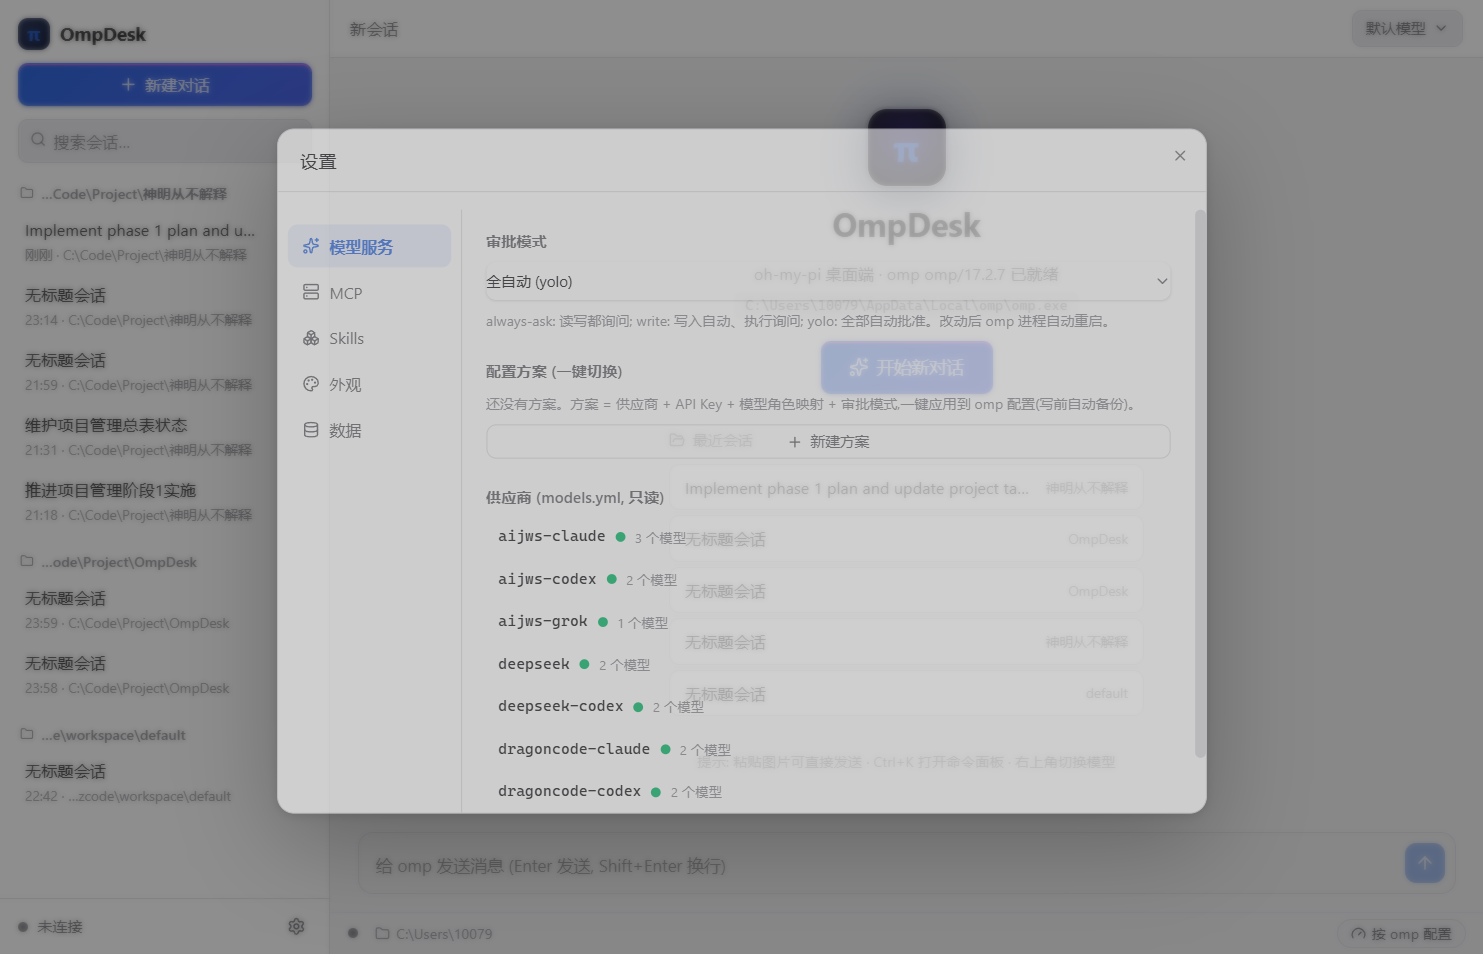
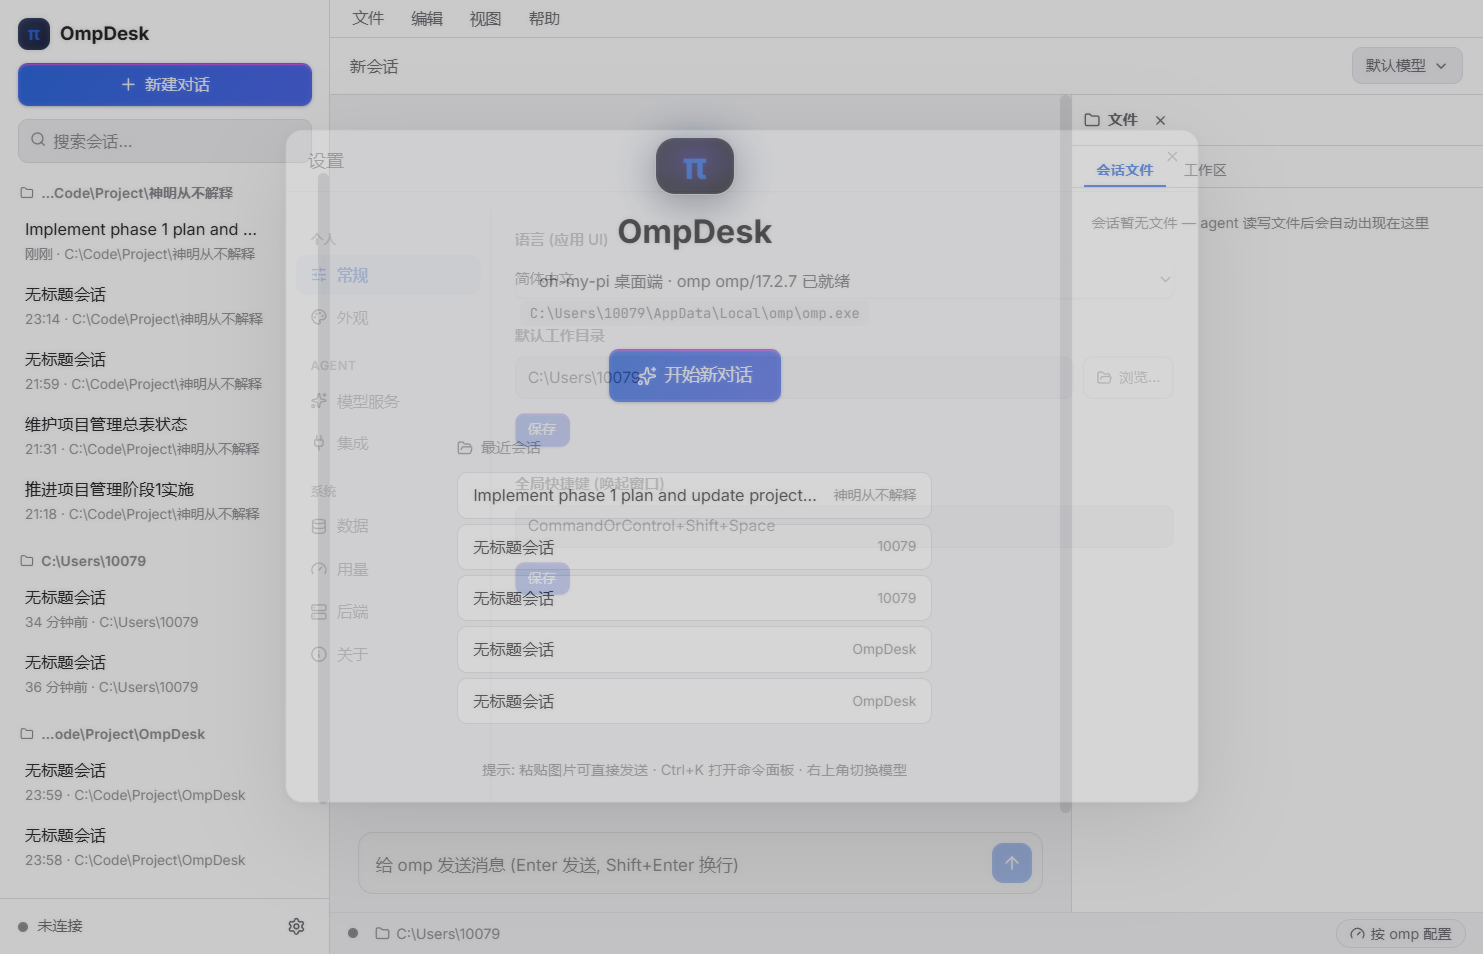
chore(release): v0.4.0 — 五阶段差异化改造(i18n 三语/Codex 式菜单与设置/文件面板/过程透明化/omp+pi 双后端); e2e 全绿

diff --git a/CHANGELOG.md b/CHANGELOG.md
@@ -4,9 +4,15 @@ All notable changes to OmpDesk are documented in this file.
 
 The format is based on [Keep a Changelog](https://keepachangelog.com/en/1.1.0/), and this project adheres to [Semantic Versioning](https://semver.org/spec/v2.0.0.html). Each release ships to all three platforms (Windows / macOS / Linux) — see [RELEASE_NOTES.md](RELEASE_NOTES.md) for per-release artifact lists and installation notes.
 
-## [Unreleased]
+## [0.4.0] - 2026-08-05
 
 ### Added
+- **i18n (multi-language)**: lightweight zero-dependency i18n layer with `zh-CN` / `en` / `ja` dictionaries, type-safe keys and `{param}` interpolation; switch language in *Settings → General* (persisted); every user-visible string extracted (~260 across renderer and main process — UI, tray, notifications, updater dialogs, about)
+- **Application menu bar (Codex-style)**: File / Edit / View / Help — self-drawn in the renderer on Windows/Linux, native app menu on macOS; accelerators registered on all platforms (Ctrl+N new chat, Ctrl+O open folder, Ctrl+, settings, Ctrl+Shift+E file panel, F11 fullscreen, zoom); Edit roles (undo/redo/cut/copy/paste/select-all)
+- **Settings restructure (Codex-style grouped navigation)**: three groups (Personal / Agent / System) with eight pages — General / Appearance / Model Service / Integrations / Data / Usage / Backend / About; About shows the dynamic app version
+- **File panel**: session files (extracted from tool calls in history + live streaming) and workspace file tree (skips `node_modules`/`.git`, depth & entry limits) with multi-tab read-only syntax-highlighted preview and drag-to-resize; new read-only IPC `omp:listFiles` / `omp:readFile` (path-traversal guarded, 512 KB cap)
+- **Process transparency (token dimension)**: per-session token chip in the top bar (Σ input/output), process summary row (messages · tool calls · total tokens) under the message stream, exact token counts on message cards
+- **Dual backend (BackendAdapter)**: omp (oh-my-pi) and pi (earendil-works) share the same origin — backend switch in *Settings → Backend* (auto / omp / pi) re-locates the binary and rebuilds the process pool; differences (binary name, data dir `~/.omp/agent` vs `~/.pi/agent`, `--mode rpc-ui` vs `--mode rpc`, `abort_and_prompt` split, protocol v2 negotiation) are centralized in `electron/main/omp/backend.ts`
 - Auto-update via electron-updater (GitHub Releases feed): silent background check 10 s after launch, system notification + in-app banner when a new version is downloaded, one-click restart & install, manual check from the tray menu
 - About dialog (tray / app menu) and macOS About panel
 - GitHub Actions release pipeline: `v*` tag → Windows / macOS (universal) / Linux builds → GitHub Release with notes auto-extracted from `CHANGELOG.md`; artifacts include `latest*.yml` update metadata
@@ -14,7 +20,10 @@ The format is based on [Keep a Changelog](https://keepachangelog.com/en/1.1.0/),
 - Release process documentation (`RELEASE.md`)
 
 ### Changed
+- Settings tabs consolidated: Model Service (unchanged) and Integrations (MCP + Skills merged); Usage and Backend pages added
+- Message token display now shows exact counts instead of rounded `k` values
 - UI fonts: bundle Inter Variable for Latin UI text and JetBrains Mono Variable for monospace (code / logs / tool names), Chinese text falls back to system fonts (PingFang SC / Microsoft YaHei); both via fontsource (OFL)
+- E2E settings suite updated for the grouped navigation (MCP/Skills now under Integrations)
 
 ### Fixed
 - CI builds now pass `--publish never`: electron-builder auto-publishes on git tags (publish config present) and failed without `GH_TOKEN` in the build jobs — publishing is done exclusively by the release job
